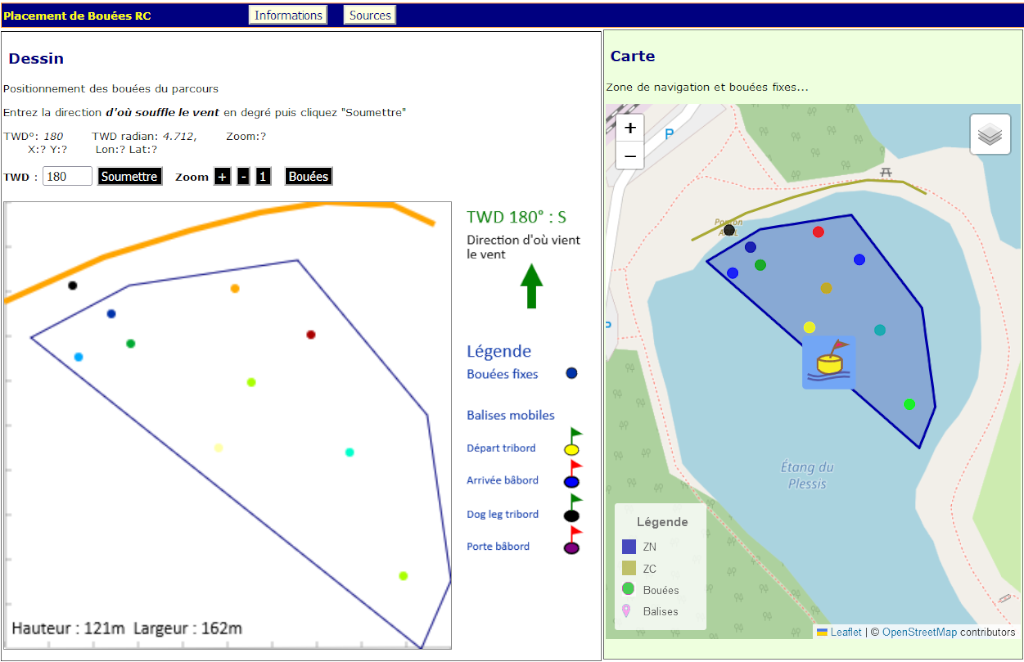
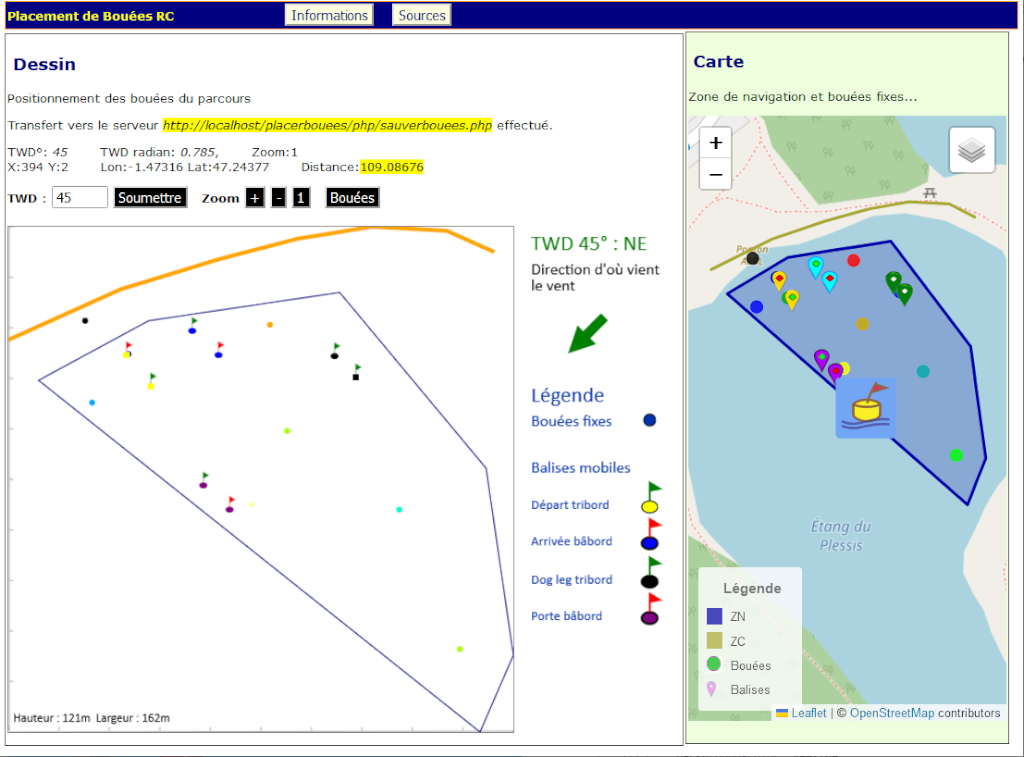
Ajout de la distance entre deux balises

diff --git a/js/bouees.js b/js/bouees.js
@@ -2,6 +2,9 @@
 // Version sans rectangle ni calcul d'intériorité
 // Trace des Bouees
 
+let distance = 0;
+let gcoord1={"lon":0.0, "lat":0.0};
+let gcoord2={"lon":0.0, "lat":0.0};
  
 /**********************************************
  *  Réticule
@@ -34,14 +37,33 @@ function show_reticule(x,y) {
 // Appelée qd la souris passe sur le canvas 3
 async function myMoveFunction(){
 // Affiche un réticule quand la souris se déplace
-  xcoord= event.offsetX;
-  ycoord= event.offsetY;
-  var x = setMouseXPos(xcoord);
-  var y = setMouseYPos(ycoord);
-  show_reticule(x,y);
-  document.getElementById("coordx").innerHTML = x;
-  document.getElementById("coordy").innerHTML = y;
-  await sleep(200);
+    xcoord= event.offsetX;
+    ycoord= event.offsetY;
+    var x = setMouseXPos(xcoord);
+    var y = setMouseYPos(ycoord);
+    show_reticule(x,y);
+    document.getElementById("coordx").innerHTML = x;
+    document.getElementById("coordy").innerHTML = y;
+    // Calcul de distance
+    gcoord2=fromScreenToGeoCoord(x, y);
+    document.getElementById("lon").innerHTML = Math.round(gcoord2.lon * 100000) / 100000;
+    document.getElementById("lat").innerHTML = Math.round(gcoord2.lat * 100000) / 100000;    
+    
+    if ((bouees !== undefined) && (bouees.length>=1)){
+        gcoord1=fromScreenToGeoCoord(bouees[bouees.length-1].x, bouees[bouees.length-1].y);
+
+        // On applique la formule de la distance selon un grand cercle 
+        // seulement valable à l'équateur pour les longitudes sur la projection Mercator
+        // Distance (km) = Rayon terreste(6400 km) * angle (°)  *  Math.PI / 180
+        // Sur les latitudes la formule 
+        var anglelon=gcoord2.lon-gcoord1.lon;
+        var anglelat=gcoord2.lat-gcoord1.lat;
+        var dlon =  6378137 * anglelon * Math.PI / 180.0;
+        var dlat =  6356752 * anglelat * Math.PI / 180.0;  
+        distance = Math.sqrt(dlon * dlon + dlat * dlat);
+        document.getElementById("distance").innerHTML = "<span class=\"surligne\">"+ (Math.round(distance * 100000) / 100000) +"</span>";
+    }    
+    await sleep(200);
     // Let's go reticule  
 }
 
@@ -130,7 +152,7 @@ function drawReticule(event){
     document.getElementById("consigne").innerHTML="Double clic pour placer une à une les bouées en travers du vent. "; 
 
     removeEvent(canvas3,"click");
-    removeEvent(canvas3,"mouseover");
+    // removeEvent(canvas3,"mouseover");
     addEvent(canvas3,"dblclick",nouvelleBouee());  
 }
 
@@ -256,7 +278,7 @@ function drawBouees(){
 // Trace une petitebouee circulaire
 function drawBoueeColor(x,y,color,flag,idfixe,contxt){   
     contxt.fillStyle=color;
-    contxt.strokeStyle = color;
+    contxt.strokeStyle = "black";
     contxt.beginPath();
     if (idfixe>=0){
         contxt.rect(x-3, y-3, 6, 6);   
@@ -266,8 +288,10 @@ function drawBoueeColor(x,y,color,flag,idfixe,contxt){
         contxt.ellipse(x, y, 4, 3, 0, 0, Math.PI * 2);
         contxt.fill();   
     }
+    ctx3.stroke();
+    
     contxt.strokeStyle = flag;
-    contxt.beginPath();
+    contxt.beginPath();   
     contxt.moveTo(x, y-3);
     contxt.lineTo(x, y-13);
     contxt.lineTo(x+5, y-10);

diff --git a/index.html b/index.html
@@ -54,8 +54,8 @@
  <p> <span id="twddeg">TWD ° ?</span> &nbsp; &nbsp; &nbsp; <span id="twdrad"></span>,  
  &nbsp; &nbsp; &nbsp; Zoom:<span id="zoomv">?</span>
  <br />
- &nbsp; &nbsp; &nbsp; X:<span id="coordx">?</span> Y:<span id="coordy">?</span>
- &nbsp; &nbsp; &nbsp; Lon:<span id="lon">?</span> Lat:<span id="lat">?</span> 
+ X:<span id="coordx">?</span> Y:<span id="coordy">?</span>
+ &nbsp; &nbsp; &nbsp; Lon:<span id="lon">?</span> Lat:<span id="lat">?</span> &nbsp; &nbsp; &nbsp; Distance:<span id="distance">...</span> 
  </p>
 <b>TWD</b> : <input type="text" id="twd" name="twd" size="5">  
  <button class="input" onclick="setTWD(); affiche_fleche_TWD();">Soumettre</button>
@@ -82,10 +82,10 @@
 </div>  
 
  <div class="canvas">
-    <canvas id="canvas1" onmousedown="show_coords(event); screen2earth();">  
+    <canvas id="canvas1" width="500" height="500" onmousedown="show_coords(event); screen2earth();">  
  This text is displayed if your browser does not support HTML5 Canvas.
     </canvas> 
-    <canvas id="canvas3" onmousemove="drawReticule(event);"></canvas>  
+    <canvas id="canvas3" width="500" height="500" onmousemove="drawReticule(event);"></canvas>  
     <div  class="info">
         <canvas id="canvas2" width="150" height="150"></canvas>
         <canvas id="canvas4" width="150" height="250"></canvas> 

diff --git a/css/style.css b/css/style.css
@@ -181,23 +181,11 @@ button {
   opacity:1;
   border: 0.5px solid grey;
   left:0;
-  height: 500px;
-  width: 500px;
   z-index: 2;
   position: absolute;
 }
   
-#canvas3 {
-  background-color: transparent;
-  opacity:1;
-  left:0;
-  height: 500px;
-  width: 500px;
-  z-index: 3;
-  position: absolute;
-}
-
-#canvas2 {
+  #canvas2 {
   background-color: transparent;
   opacity:1;
   right: 0;
@@ -206,6 +194,14 @@ button {
   position: absolute;
 }
 
+
+#canvas3 {
+  background-color: transparent;
+  opacity:1;
+  left:0;
+  z-index: 3;
+  position: absolute;
+}
 
 #canvas4 {
   background-color:  transparent;

diff --git a/js/canvas.js b/js/canvas.js
@@ -422,6 +422,15 @@ function draw_scale(){
     ctx.translate(-canvasw/2, -canvash/2-20);   
 */
 
+//---------------------------
+function fromScreenToGeoCoord(x, y){
+    // Ne pas oublier d'appliquer les transformations inverses (-T') ° TR ° (-T)
+    var cx=setCanvasX(x,y,twd_radian); 
+    var cy=setCanvasY(x,y,twd_radian);
+    return {"lon":get_lon_Xecran(cx),"lat":get_lat_Yecran(cy)};
+}
+
+
 function setCanvasX(x,y, radian){
 // On applique une translation -T1, une rotation inverse R  et une translation T2   
     var x0 = x - canvasw/2; // Translation T1

diff --git a/README.md b/README.md
@@ -1,50 +1,48 @@
-# placementbouées
+# Placement de bouées de régate
 Positionnement manuel de bouées de régate radiocommandée
-**Web** *placerbouees* 
+Application **Web** :  *placerbouees/index.html* 
 
 ### Développée par JF en javascript et PHP.
 (cc) jean.fruitet@free.fr
-Cette page web autorise le positionnement de bouées fixes et mobiles autonomes sur une carte OpenStreetMap 
-de l'étang du Plessis à Sainte Luce / Loire, 44980.
-Elle entre comme composant logiciel dans le projet RoBoNav mené depuis février 2023 avec l'ICAM de Nantes.
+
+Cette page web autorise le positionnement de bouées fixes et mobiles autonomes sur une carte OpenStreetMap de l'étang du Plessis à Sainte Luce / Loire, 44980.
+
+Elle est un composant logiciel du projet RoBoNav mené depuis février 2023 avec l'ICAM de Nantes.
 
 ## Ecran
 ### Partie droite 
-
-Affichage de la carte du plan d'eau du Plessis avec le périmètre de navigation , la zone des concurrents et les 
-bouées ancrées (bouées fixes, à demeure).
+Affichage de la carte du plan d'eau du Plessis avec le périmètre de navigation , la zone des concurrents et les bouées ancrées (bouées fixes, à demeure).
 
 ### Partie gauche  
-
-Pointage à la souris des des bouées d'un parcours de régate, en s'appuyant aussi bien sur les bouées fixes que mobiles.
+Pointage à la souris des bouées du parcours d'une régate, en utilisant aussi bien  les bouées ancrées (fixes) que des bouées mobiles (des balises autonomes ancrées virtuellement).
 
 ## Fonctionnalités
+Affichage sur une carte OpenStreetMap de la partie de l'étang du Plessis réservée au modélisme, de la zone réservée aux concurrents et des bouées fixes. 
+Après positionnement d'un jeu de bouées mobiles à la souris sur la partie gauche de l'écran, les bouées sont affichées sur la carte et leurs coordonnées GPS (longitude, latitude) sont envoyées au serveur pour transmission à RoBoNav.
 
-Cartographie de l'étang du Plessis réservé au modélisme. Les bouées fixes ne peuvent être déplacées. 
-Après positionnement les coordonnées GPS des bouées sélctionnées sont affichées sur la carte et envoyée au serveur pour transmission à RoBoNav.
-
-- Boutons :
-  1. TWD : Saisie de la direction d'où soufle le vent (entrer la valeur TWD en degrés) ; cliquer sur le bouton "Soumettre" ;
-  2. Zoom : "+", "-", "1": remize à 0
-  3. Bouton "Bouées" : Saisie des positions à la souris;
+## Interface
+- Boutons 
+  - TWD : Saisie de la direction d'où soufle le vent (entrer la valeur TWD en degrés) ; cliquer sur le bouton "**Soumettre**" ;
+  - Zoom : "+", "-", "1": remise à l'échelle 1 ;
+  - Bouton "**Bouées**" : Saisie des positions à la souris;
 - Légendes
-  1. Affiche une flèche indiquant la **direction vers laquelle soufle le vent**, TWD : true wind direction en  ° ;
-  2. "Bouées fixes" telles que lues dans le fichier geojson attaché au plan d'eau du Plessis;
-  3. Balises mobiles :
+  1. Tracé d'une flèche indiquant la **direction vers laquelle soufle le vent**, *TWD* : true wind direction, en  ° ;
+  2. "*Bouées fixes*" telles que lues dans le fichier geojson attaché au plan d'eau du Plessis ;
+  3. **Balises mobiles** :
     * Bouées de départ en jaune
     * Bouée d'arrivée en bleu
     * Bouée de dog leg en noir
     * Bouée d'une porte en violet
-Les bouées mobiles sont surmontées d'un drapeua de couleur verte (laisser à tribordà ou rouge (laisser à bâbord).
+Les bouées mobiles sont surmontées d'un drapeau de couleur verte (laisser à tribord) ou rouge (laisser à bâbord).
 
 ## Connexion avec un serveur externe
 
-La page Web envoie à un serveur externe les corconnées géographiques (Longitude, Latitude) à un serveur 
-qui peut être consulté par l'applet RoBoNav.
+La page Web envoie à un serveur externe les coordonnées géographiques (Longitude, Latitude) des bouées et balises retenues pour constituer le parcours ;
+ces coordonnées sont ensuite transmises à l'applet RoBoNav de pilotage des balises autonomes.
 
 Il y a quelques conditions à cela :
-  1. La connexion Web doit être activée (ou les Données mobiles activées)
-  2. Un serveur doit être activé.
+  1. La connexion Web doit être activée (ou les *Données mobiles* activées)
+  2. Le serveur doit être activé.
   3. Dans la version actuelle l'URL du serveur est codée en dur dans le code source.
   
 ## Ce qui reste à faire
@@ -52,10 +50,37 @@ Il y a quelques conditions à cela :
 - Intégrer l'application au projet RoBoNav de positionnement de bouées de régate avec ancrage virtuel par GPS
 
 ## Difficultés rencontrées
-Il m'a afllut reprendre complètement mes notions de javascript.
-Je me suis appuyé sur l'excellente librairies LeafLet pour la création des cartes
-L'adaptation à une langue différente ne me paraît pas trop compliquée...
+Il m'a fallut reprendre complètement mes notions de javascript, de canvas et de création de cartes et de couches d'éléments graphiques.
+Je me suis appuyé sur l'excellente librairies LeafLet pour la création des cartes, ainsi que sur les dizaines de contributions disponibles en ligne sur les forums ad hoc.
 
+L'adaptation à une langue différente du français ne me paraît pas trop compliquée...
+
+## Sources
+```
+./placerbouees
+  index.html
+  icones.html
+./js
+  myscript.js
+  geo_utils.js
+  le-plessis.js
+  maps.js
+  canavas.js
+  bouees.js  
+./css
+  style.css
+  materiel.css
+  material-icons.css
+./php
+  placer-bouees.php
+  sauverbouees.php
+./images
+./data
+  Fichiers de positionnement de bouées par direction du vent
+./doc
+  Captures d'écran
+```
+  
 ## Liens
 MIT App Inventor http://ai2.appinventor.mit.edu/
 
